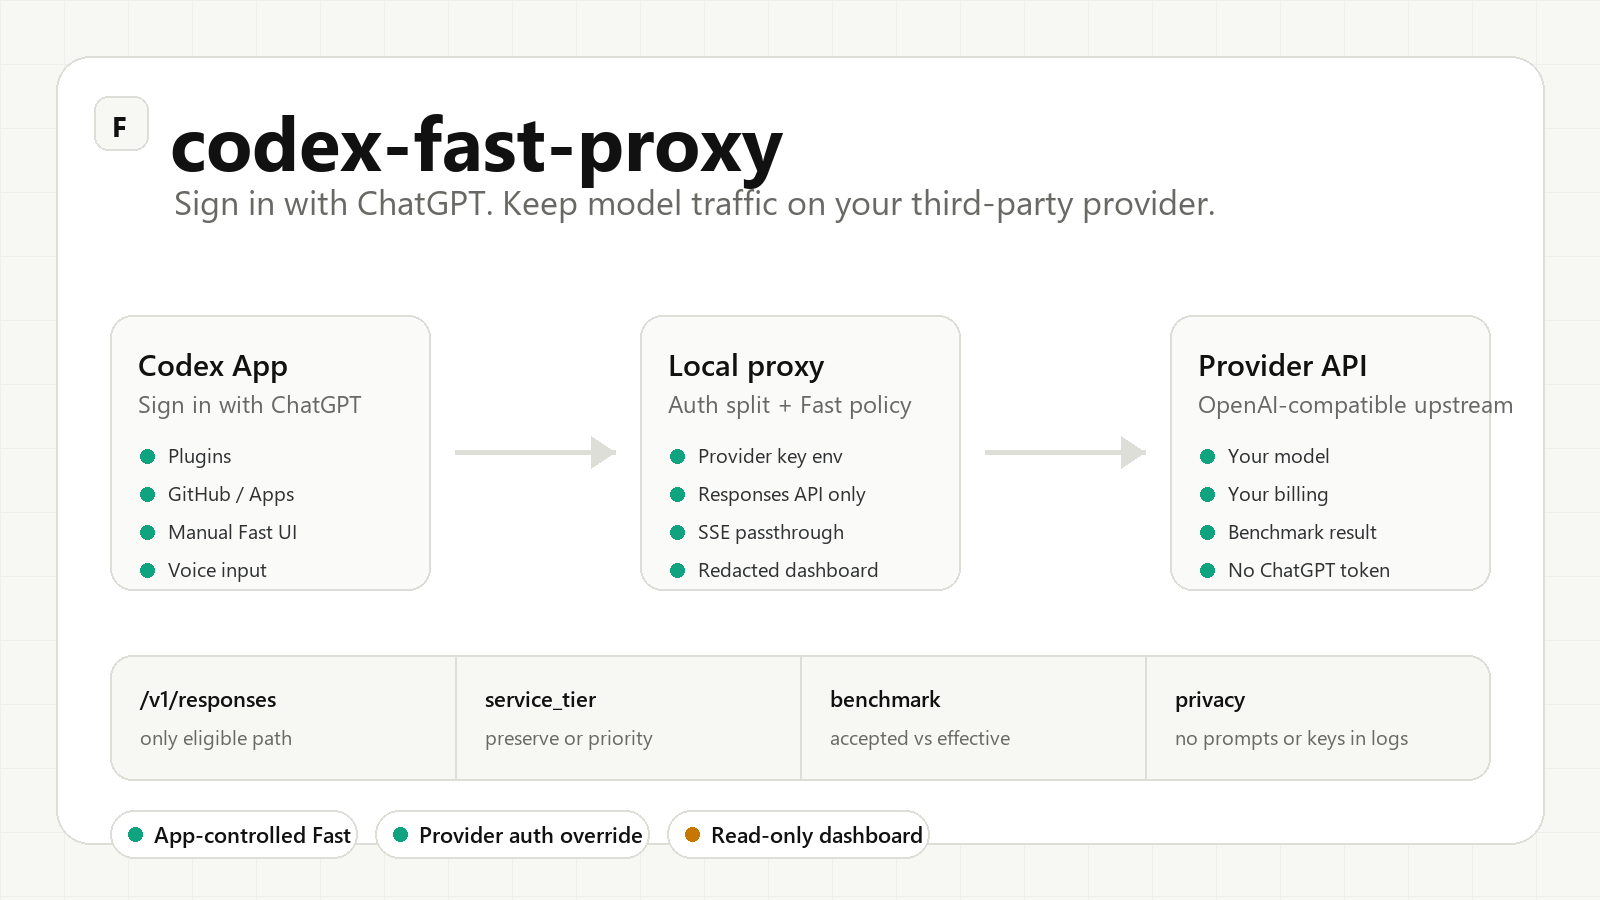
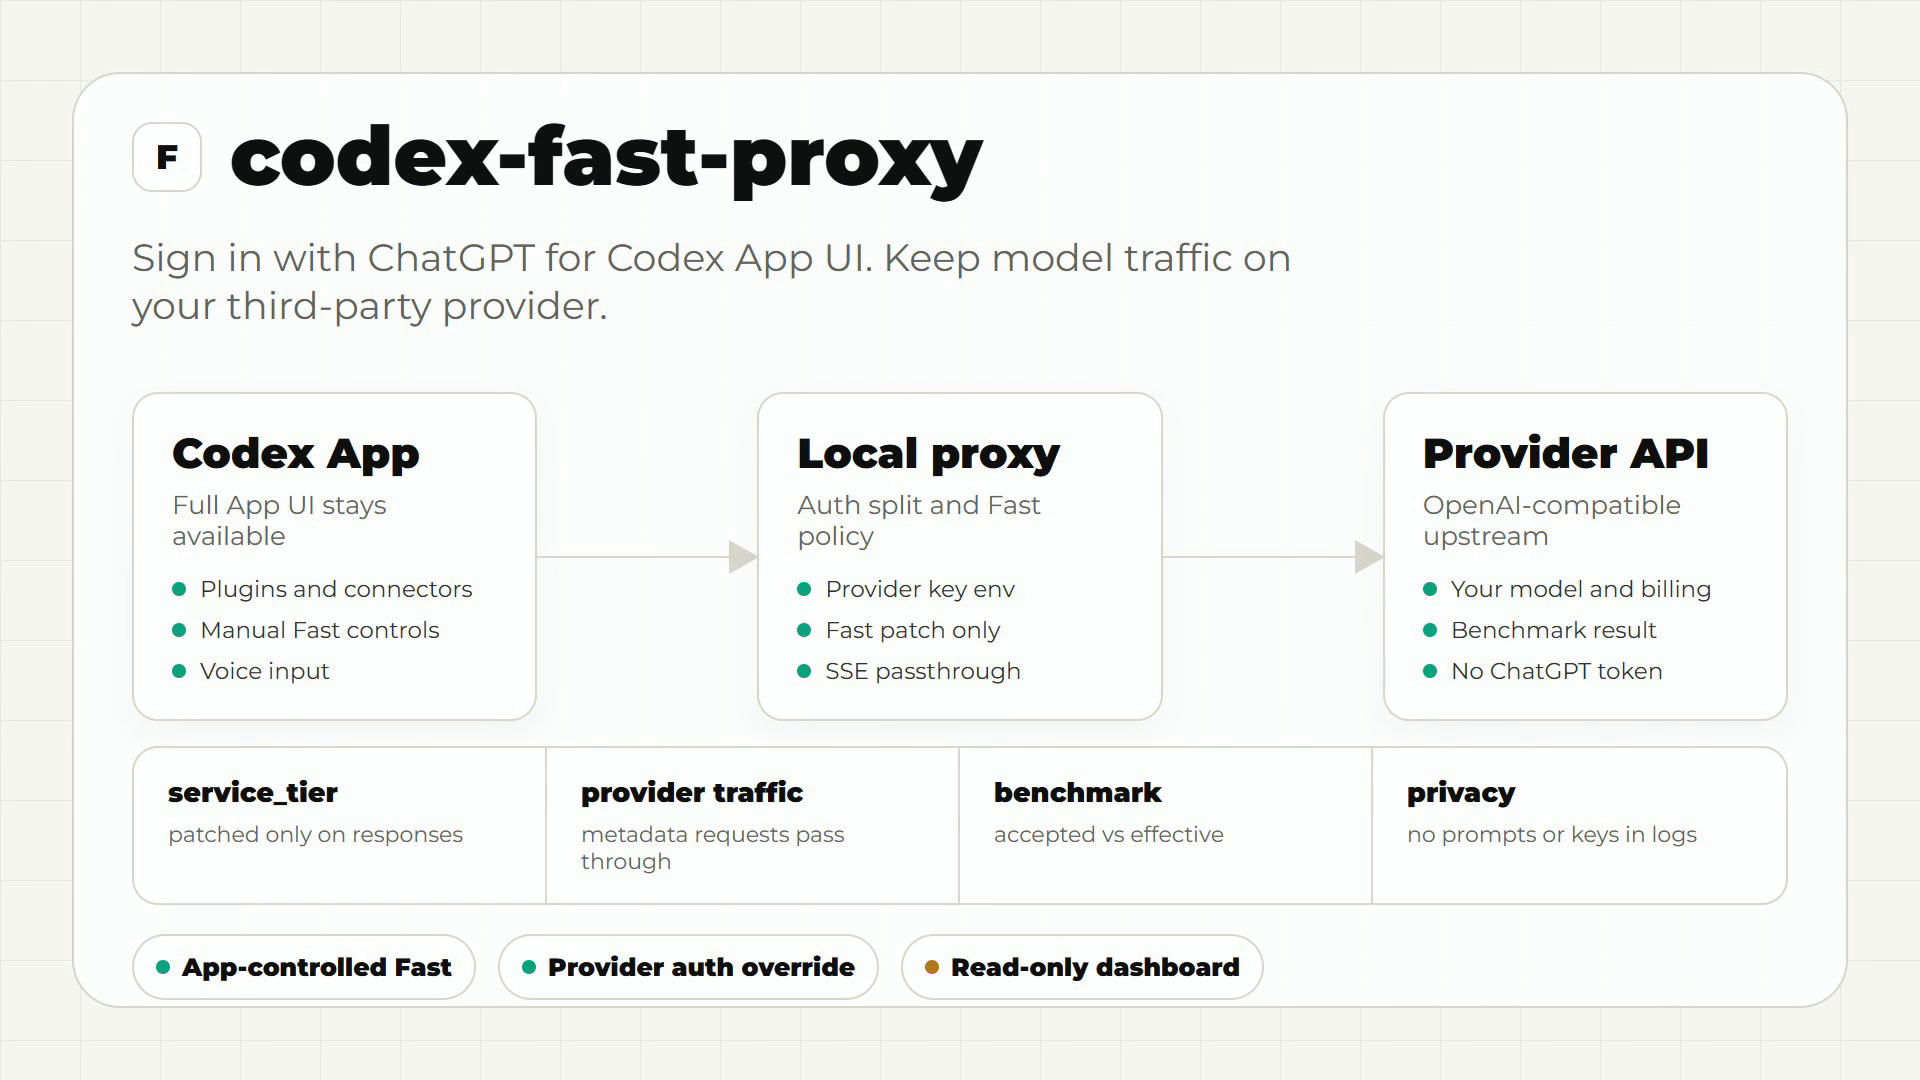
fix: use README gif overview asset

diff --git a/README.md b/README.md
@@ -11,9 +11,7 @@ own Fast controls intact when they are available.
 
 [Chinese Guide](docs/README.zh-CN.md) · [Quick Start](#quick-start) · [Common Workflows](#common-workflows) · [Dashboard](#dashboard) · [Safety](#safety) · [Advanced Usage](docs/advanced-usage.md) · [Sponsor](#sponsor)
 
-![Codex Fast Proxy overview](docs/assets/hero.png)
-
-[Watch the 10-second overview video](docs/assets/codex-fast-proxy-promo.mp4)
+![Codex Fast Proxy overview](docs/assets/codex-fast-proxy-promo.gif)
 
 ## Why
 